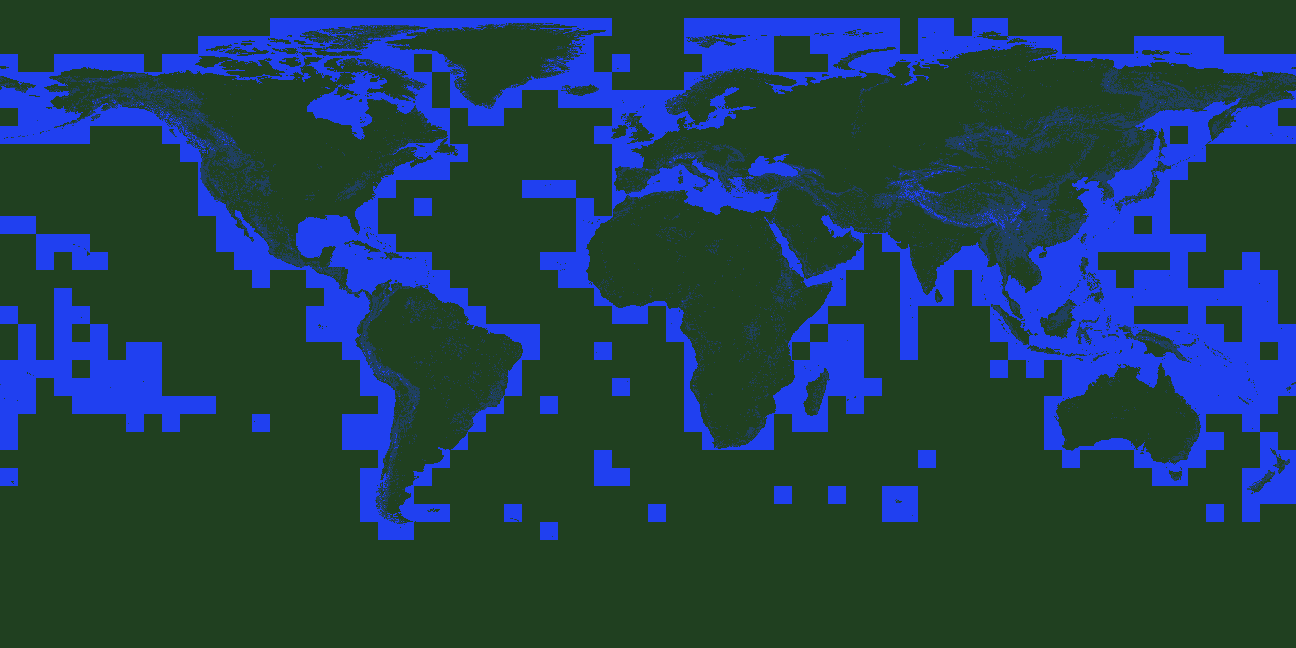
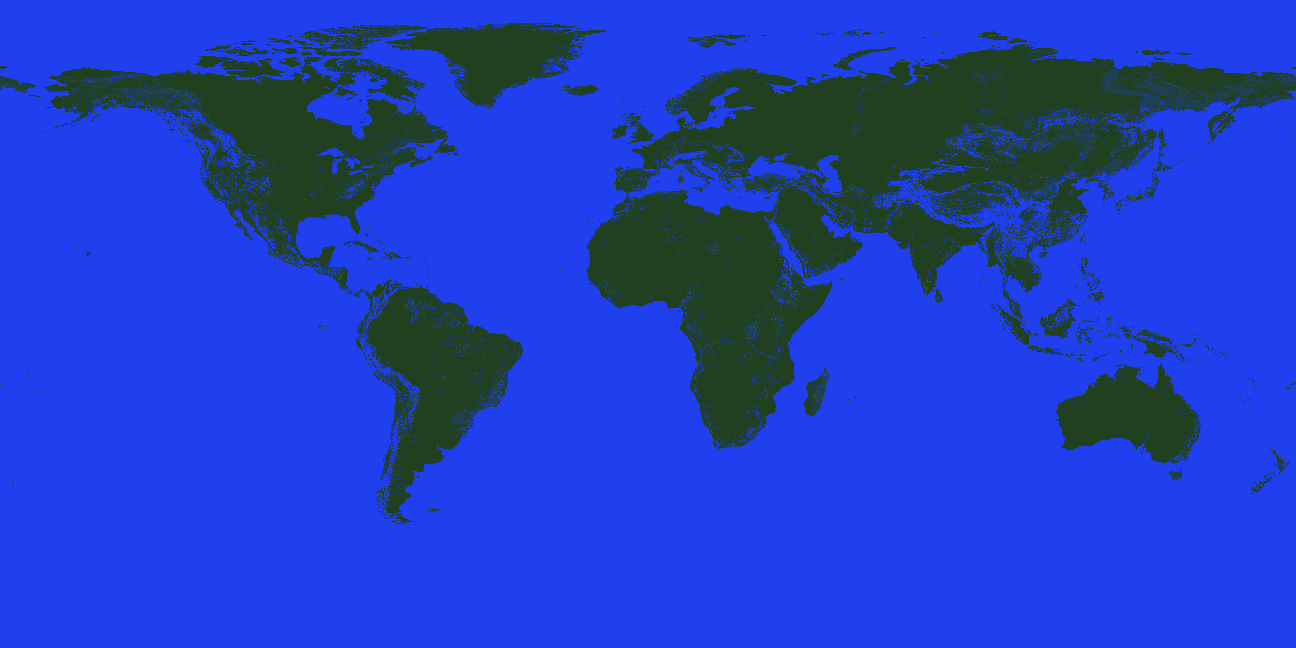
Generate imagery for current results.
Repair the process_imagery.py code to generate new imagery:
+ handle slope without requiring band 9 (average
  across the 1km pixel)
+ generate PNGs after creating AEZ.tif, not before.

diff --git a/process_imagery.py b/process_imagery.py
@@ -404,7 +404,9 @@ def produce_GeoTIFF():
     lc_img = osgeo.gdal.Open(lc_filename, osgeo.gdal.GA_ReadOnly)
     lc_band = lc_img.GetRasterBand(1)
     sl_img = osgeo.gdal.Open(sl_filename, osgeo.gdal.GA_ReadOnly)
-    sl_band = sl_img.GetRasterBand(9)
+    sl_band = {}
+    for idx in range(1, 9):
+        sl_band[idx] = sl_img.GetRasterBand(idx)
     wk_img = osgeo.gdal.Open(wk_filename, osgeo.gdal.GA_ReadOnly)
     wk_band = wk_img.GetRasterBand(1)
 
@@ -432,9 +434,20 @@ def produce_GeoTIFF():
             kg_blk = np.repeat(np.repeat(k, 3, axis=1), 3, axis=0)
             regime = populate_tmr(kg_blk)
 
-            k = sl_band.ReadAsArray(x3, y3, ncols3, nrows3)
-            sl_blk = np.repeat(np.repeat(k, 3, axis=1), 3, axis=0)
+            sl_blk = {}
+            for idx in range(1, 9):
+                s = sl_band[idx].ReadAsArray(x3, y3, ncols3, nrows3)
+                sl_blk[idx] = np.repeat(np.repeat(s, 3, axis=1), 3, axis=0)
+
             slope = populate_slope(sl_blk)
+            plurality = {}
+            plurality['steep'] = ((slope['steep'] >= slope['moderate']) &
+                    (slope['steep'] >= slope['minimal']))
+            plurality['moderate'] = ((slope['moderate'] > slope['steep']) &
+                    (slope['moderate'] >= slope['minimal']))
+            plurality['minimal'] = ((slope['minimal'] > slope['steep']) &
+                    (slope['minimal'] >= slope['moderate']))
+            slope = plurality
 
             lc_blk = lc_band.ReadAsArray(x, y, ncols, nrows)
             land_use = populate_land_use(lc_blk)
@@ -497,5 +510,5 @@ if __name__ == '__main__':
     signal.signal(signal.SIGUSR1, start_pdb)
     os.environ['GDAL_CACHEMAX'] = '128'
     produce_CSV()
+    produce_GeoTIFF()
     produce_PNGs()
-    #produce_GeoTIFF()
